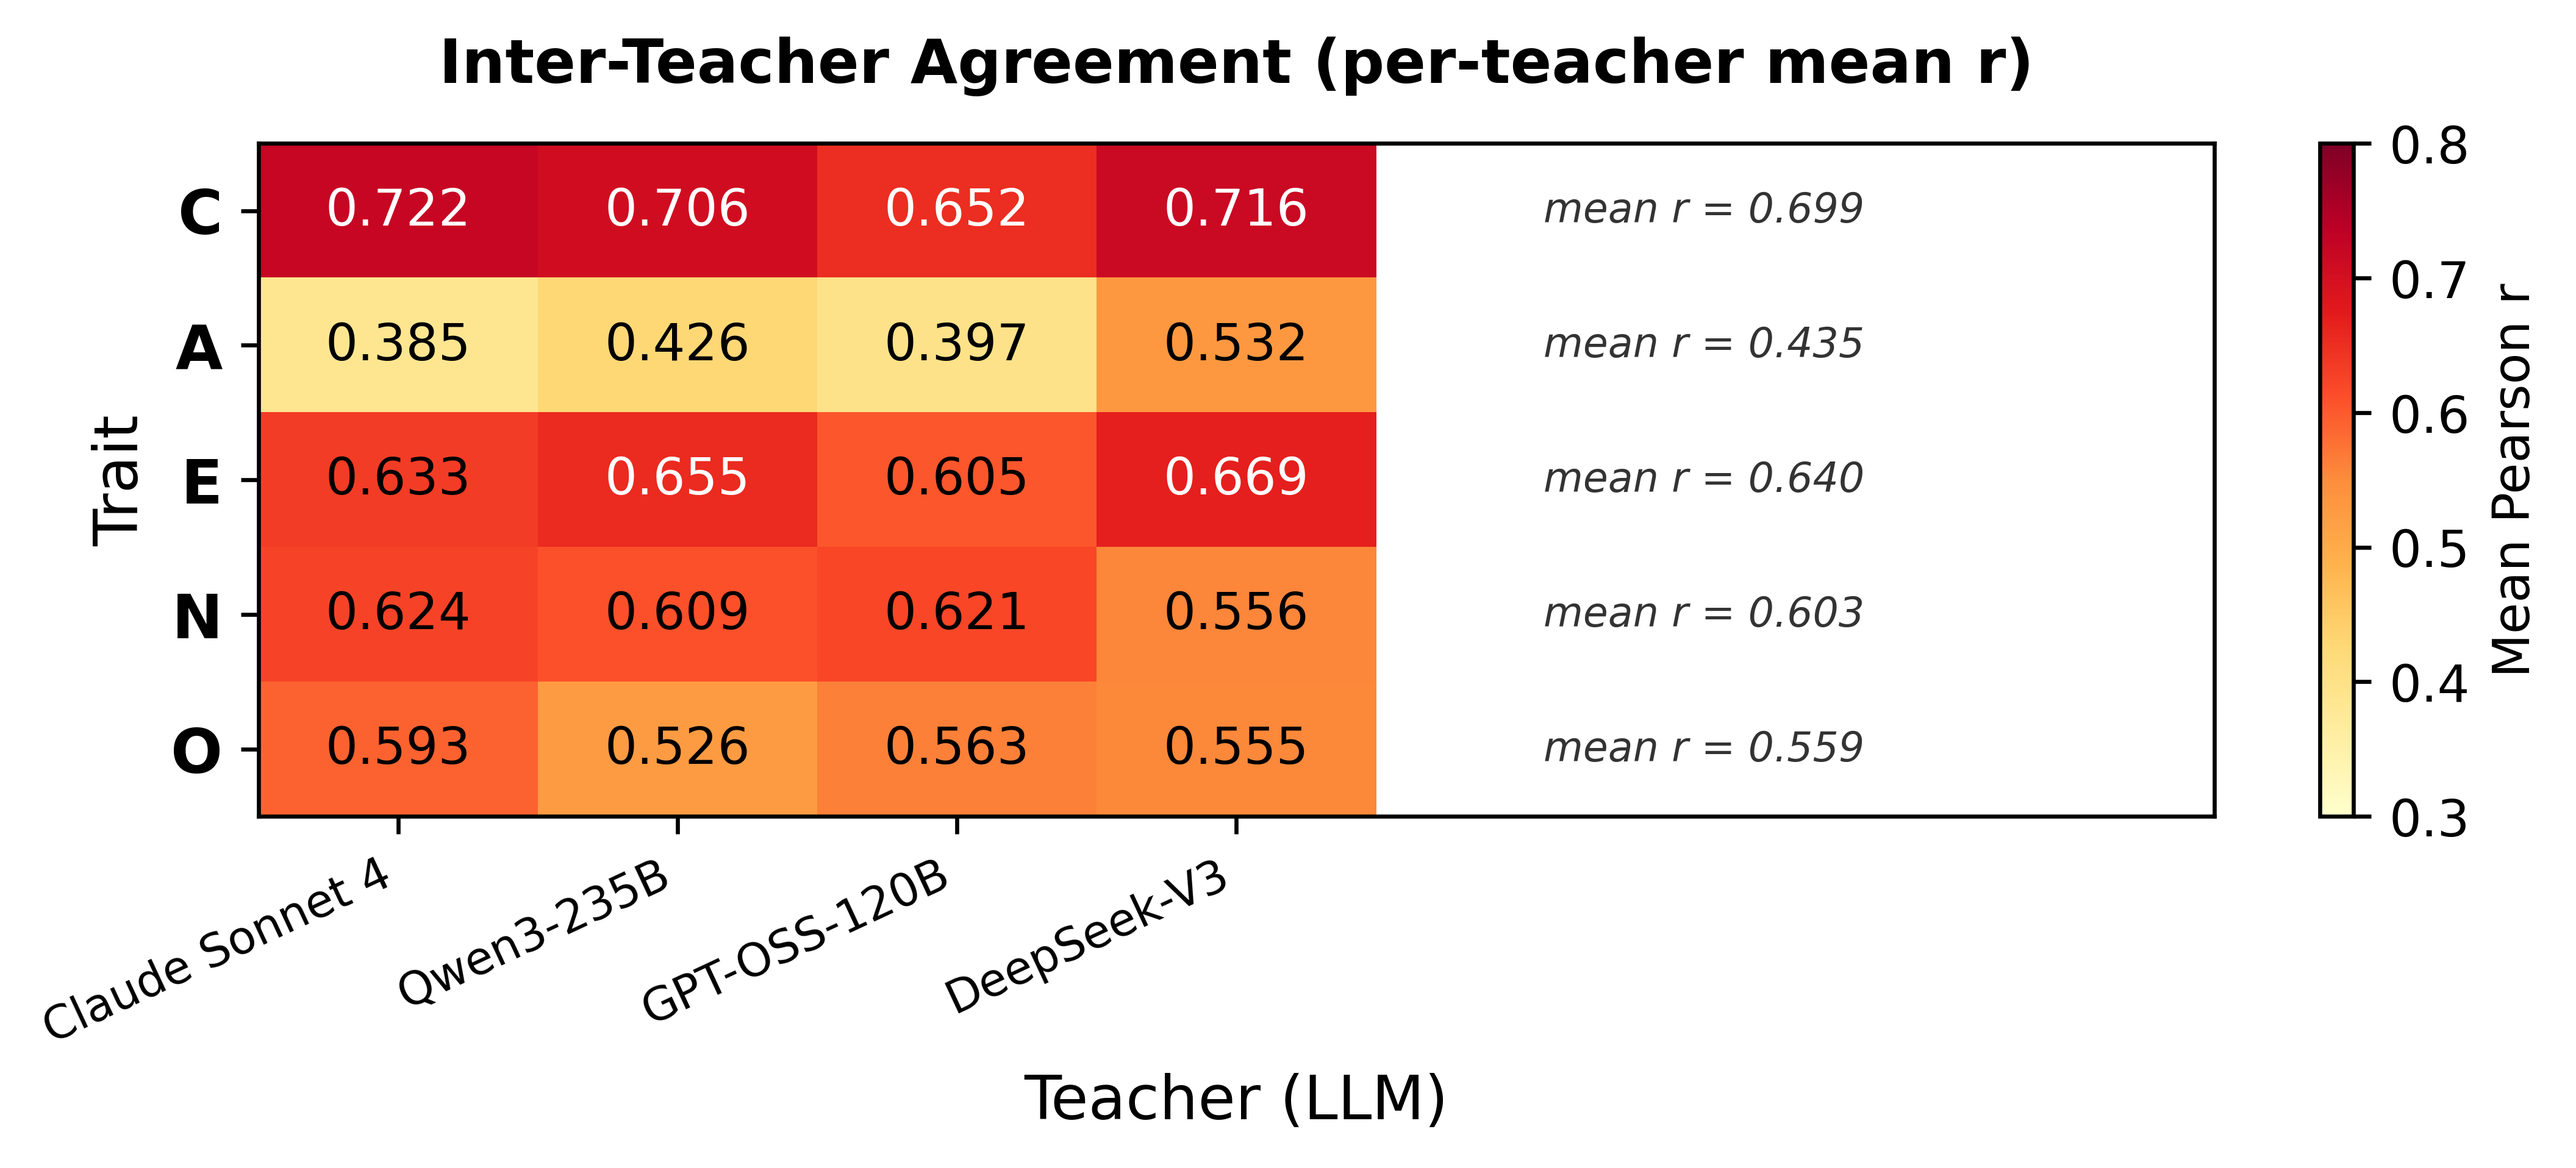
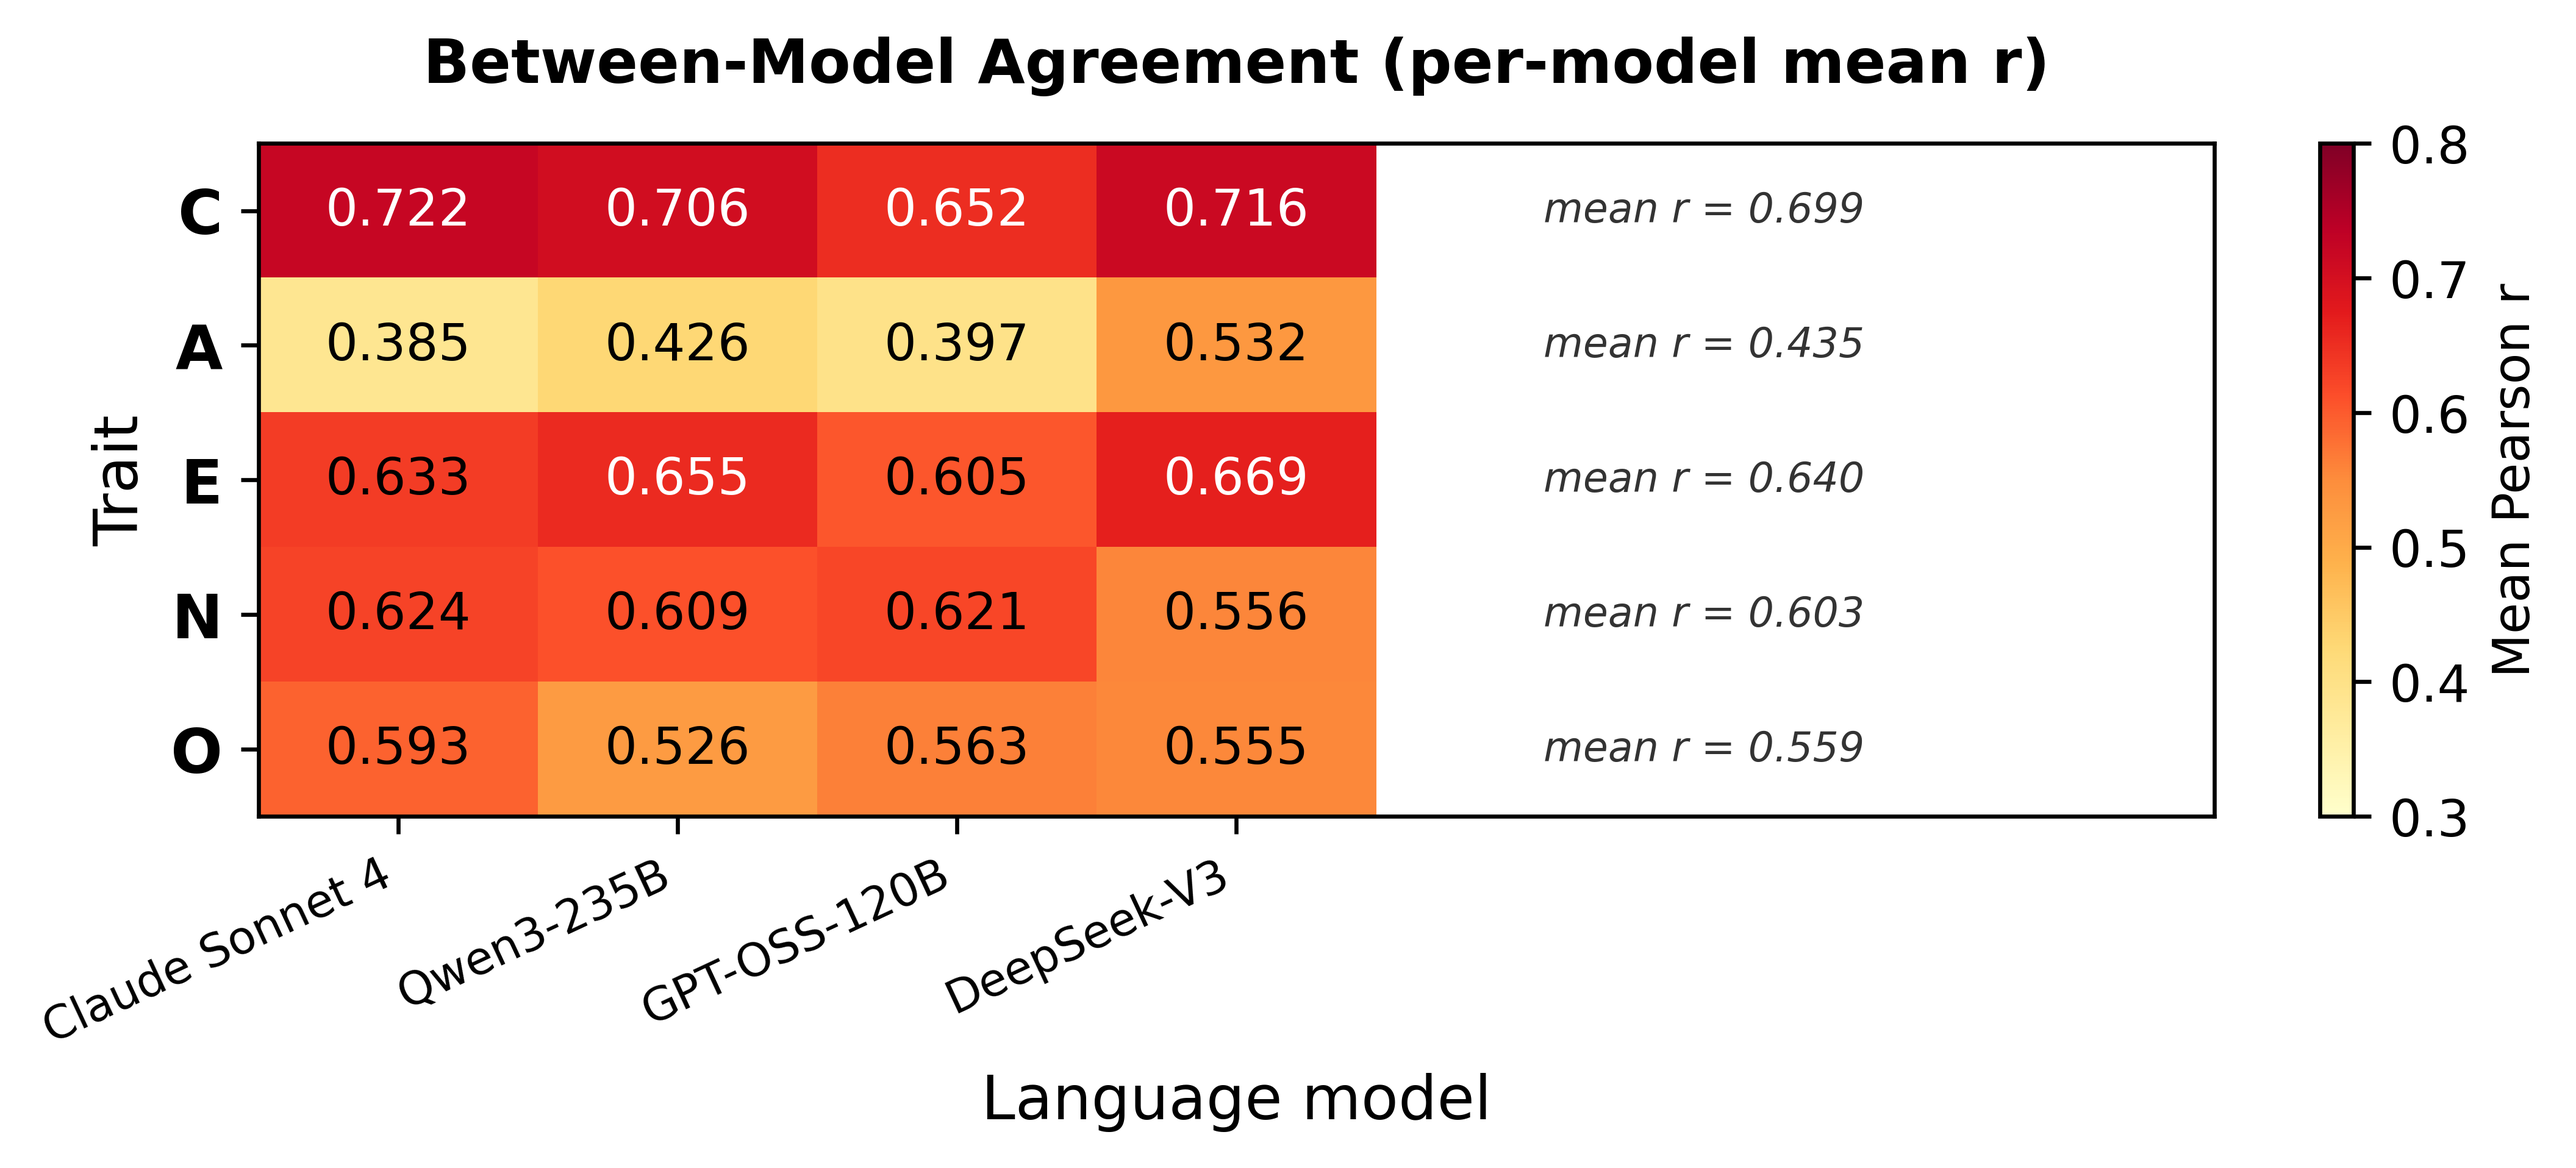
Drop "teacher" from the text rendered into the agreement figures
Text baked into a figure is manuscript text, and two figures still carried the
earlier name for the virtual rater while their captions did not.

- fig_teacher_corr_matrix.png: "Inter-Teacher Pearson Correlation (4 LLM
  Teachers x 5 Traits)" becomes "Between-Model Pearson Correlation (4 Language
  Models x 5 Traits)". The caption reads "Agreement between models".
- fig_teacher_heatmap.png: the title becomes "Between-Model Agreement (per-model
  mean r)" and the x axis "Language model". The caption reads "Mean agreement
  between models".

Filenames, label names and variables keep "teacher": they are internal
identifiers, and renaming teacher_corr_{trait}.tsv would break the Makefile, the
figure-source map and the twin of this file in the working repository.

Both figures come out at their previous pixel dimensions, so nothing moves on the
page, and the regenerated files are byte-identical to the ones the manuscript now
includes.

Changed region(s): [[0.1562, 0.0308, 0.8125, 0.0924], [0.375, 0.9238, 0.5938, 0.9854]]

diff --git a/scripts/paper_figs/gen_paper_figs_v2.py b/scripts/paper_figs/gen_paper_figs_v2.py
@@ -779,9 +779,10 @@ def gen_fig_teacher_heatmap(out_dir: Path) -> None:
     # Expand x-axis to make room for the mean r annotation (avoid colorbar overlap)
     ax.set_xlim(-0.5, len(TEACHERS) - 0.5 + 3.0)
 
-    ax.set_title("Inter-Teacher Agreement (per-teacher mean r)",
+    # Same as above. The caption reads "Mean agreement between models".
+    ax.set_title("Between-Model Agreement (per-model mean r)",
                  fontsize=12, fontweight="bold", pad=12)
-    ax.set_xlabel("Teacher (LLM)", fontsize=12)
+    ax.set_xlabel("Language model", fontsize=12)
     ax.set_ylabel("Trait", fontsize=12)
 
     # Colorbar
@@ -876,8 +877,12 @@ def gen_fig_teacher_corr_matrix(results_dir: Path, out_dir: Path) -> None:
     sm.set_array([])
     cbar = fig.colorbar(sm, ax=ax_cb, fraction=0.6, pad=0.05, label="Pearson r")
 
+    # The text baked into the figure matches the manuscript's caption,
+    # "Agreement between models". "Teacher" was the earlier name for the virtual
+    # rater; the manuscript now says "language model" and "virtual Big5 score", so
+    # the rendered strings drop it too. Variable names are internal and stay.
     fig.suptitle(
-        "Inter-Teacher Pearson Correlation\n(4 LLM Teachers × 5 Traits)",
+        "Between-Model Pearson Correlation\n(4 Language Models × 5 Traits)",
         fontsize=14,
         fontweight="bold",
         y=0.98,
